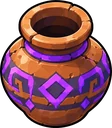
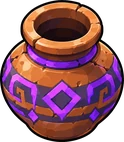
Jeu Spirit v48 : plus de Spirit dans les portes fermées, objets alignés et plus grands
- une porte fermée bouche son embrasure ; Spirit fait quelques pas dans la salle avant que les grilles tombent
- plus de mur dessiné devant Spirit aux portes de côté
- statues et braseros centrés sur les dalles, objets plus grands, gargouille à pousser marquée de cyan
- tête collée sur le fauteuil retirée en attendant l'image peinte ; pas de phrase qui dévoile la suite dans le QG
- catalogue : D1-18 (nouvelle série d'objets du Terrier), PRO-07 obligatoire

Claude-Session: https://claude.ai/code/session_01H9Lthdyi4Yt8UdeFU5WNwb

diff --git a/jeu-spirit/jeu/js/donjon.js b/jeu-spirit/jeu/js/donjon.js
@@ -181,8 +181,10 @@ SG.DONJON1 = {
 
 SG.CASES_SALLE_PLEINES = new Set(['#', 'o', 'F', 'p', 'C', 'X', 'B', 'v']);
 SG.CASES_SALLE_MURS = new Set(['#', 'v']);
+// dans les salles peintes, statues et braseros se placent au milieu des dalles du sol (dalles de 131,5 px à partir de x = 114)
+SG.xDalle = (x) => 114 + 131.5 * (Math.round((x - 114 - 65.75) / 131.5)) + 65.75;
 // empreinte au sol des objets (demi-largeur, hauteur) : seul le pied arrête, on passe derrière le reste
-SG.PIEDS_OBJETS = { o: [26, 30], F: [22, 26], p: [20, 24], C: [32, 32], X: [22, 26], B: [36, 42] };
+SG.PIEDS_OBJETS = { o: [30, 30], F: [26, 26], p: [22, 24], C: [36, 32], X: [22, 26], B: [36, 42] };
 
 SG.cleSalles = (a, b) => [a, b].sort().join('|');
 
@@ -525,7 +527,7 @@ Object.assign(SG.Jeu.prototype, {
     this.cristalFrappe = D.resolues.includes(k) && S.condition === 'cristal';
     // braseros
     this.feux = [];
-    S.plan.forEach((ligne, r) => [...ligne].forEach((ch, c) => { if (ch === 'F') this.feux.push(new SG.Feu(c * SG.T + 40, r * SG.T + 34, 0.7)); }));
+    S.plan.forEach((ligne, r) => [...ligne].forEach((ch, c) => { if (ch === 'F') this.feux.push(new SG.Feu(this.imageSalle() ? SG.xDalle(c * SG.T + 40) : c * SG.T + 40, r * SG.T + 34, 0.7)); }));
     if (S.boss) {
       if (!D.fini) {
         SG.Son.jouerMusique('boss');
@@ -602,9 +604,12 @@ Object.assign(SG.Jeu.prototype, {
     const S = this.salle(), k = this.salleCle();
     if (!this.imageSalle()) return null;
     this.masques = this.masques || {};
-    if (this.masques[k]) return this.masques[k];
+    // une porte fermée (verrou, volets, grille) bouche son embrasure : Spirit ne marche jamais dans une porte close
+    const dirs = ['haut', 'bas', 'gauche', 'droite'], ouv = dirs.map((d) => this.porteOuverte(d) ? '1' : '0').join('');
+    const cm = k + '|' + ouv;
+    if (this.masques[cm]) return this.masques[cm];
     const libre = (x, y, r) => x >= r[0] && x < r[2] && y >= r[1] && y < r[3];
-    const couloirs = [[580, 0, 700, 120], [580, 600, 700, 720], [0, 320, 120, 400], [1160, 320, 1280, 400]];
+    const couloirs = [[580, 0, 700, 120], [580, 600, 700, 720], [0, 320, 120, 400], [1160, 320, 1280, 400]].filter((q, i) => ouv[i] === '1');
     const m = [];
     for (let r = 0; r < 36; r++) {
       let l = '';
@@ -617,7 +622,7 @@ Object.assign(SG.Jeu.prototype, {
       }
       m.push(l);
     }
-    return (this.masques[k] = m);
+    return (this.masques[cm] = m);
   },
 
   caseSalle(c, r) {
@@ -644,6 +649,7 @@ Object.assign(SG.Jeu.prototype, {
       if (!pied) continue;
       let cx = c * T + 40;
       if (ch === 'X') cx += S.cristalDx || 0;
+      if ((ch === 'o' || ch === 'F') && this.imageSalle()) cx = SG.xDalle(cx);
       if (ch === 'B') {
         const bl = (this.blocs || []).find((q) => q.r === r && (q.c === c || (S.decalBloc && q.c + 1 === c)));
         if (bl) { if (bl.c !== c) continue; cx = bl.c * T + 40 + (S.decalBloc || 0); }
@@ -698,6 +704,22 @@ Object.assign(SG.Jeu.prototype, {
     if (avant < SG.DELAI_GRILLES && this.tSalle >= SG.DELAI_GRILLES && this.sallePortesFermees()) SG.Son.effet('porte');
     const S = this.salle(), k = this.salleCle(), D = this.etatDonjon(), s = this.spirit;
     if (!this.entreeSalle) this.entreeSalle = { x: s.x, y: s.y };
+    // salle piège : avant que les grilles tombent, Spirit fait quelques pas dans la salle (jamais coincé dans l'embrasure)
+    // (et de même si la porte par laquelle il est entré est fermée, par exemple des volets qui attendent la plaque)
+    const piege = (S.boss && !D.fini) || !!(S.combat && !D.resolues.includes(k) && this.monstres.length > 0);
+    const cote = s.y > 604 ? 'bas' : s.y - s.ph < 116 ? 'haut' : s.x < 116 ? 'gauche' : s.x > 1164 ? 'droite' : null;
+    if (cote && (piege || (!this.porteOuverte(cote) && this.tSalle < 1.2)) && this.imageSalle()) {
+      const cible = { x: SG.clamp(s.x, 150, 1130), y: SG.clamp(s.y, 150 + s.ph, 590) };
+      const dx = cible.x - s.x, dy = cible.y - s.y, d = Math.hypot(dx, dy);
+      if (d > 1) {
+        const v = Math.min(d, 380 * dt);
+        s.x += dx / d * v; s.y += dy / d * v;
+        s.dir = Math.abs(dx) > Math.abs(dy) ? (dx > 0 ? 'droite' : 'gauche') : (dy > 0 ? 'bas' : 'haut');
+        s.bouge = true; s.tempsMarche = (s.tempsMarche || 0) + dt;
+        if (this.tSalle >= SG.DELAI_GRILLES) this.tSalle = SG.DELAI_GRILLES - 0.01;
+        return;
+      }
+    }
     if (s.chute > 0) {
       s.chute -= dt;
       if (s.chute <= 0) {
@@ -749,7 +771,8 @@ Object.assign(SG.Jeu.prototype, {
           if (b && libre && !((S.condition === 'bloc' || S.condition === 'plaque') && D.resolues.includes(k))) { b.c = nc; b.r = nr; b.dc = d.x; b.dr = d.y; b.anim = 1; b.pousse = true; SG.Son.effet('porte'); }
         }
       } else this.pousse = 0;
-      const dp = this.dirPorte(fc, fr);
+      // la porte se cherche un peu plus loin que le bloc : Spirit bute contre l'embrasure, pas dedans
+      const dp = this.dirPorte(Math.floor((s.x + d.x * 70) / SG.T), Math.floor((s.y - 11 + (d.y > 0 ? 60 : d.y * 60)) / SG.T));
       if (dp && dp === s.dir && !this.porteOuverte(dp) && !this.sallePortesFermees() && !this.messageVerrou) {
         const p = this.porteVers(dp);
         if (p && p.type === 'cle') {
@@ -942,8 +965,9 @@ Object.assign(SG.Jeu.prototype, {
     const S = this.salle(), k = this.salleCle(), D = this.etatDonjon(), T = SG.T;
     for (let r = 0; r < SG.ROWS; r++) for (let c = 0; c < SG.COLS; c++) {
       const ch = this.caseSalle(c, r), x = c * T + 40, y = r * T + T;
-      if (ch === 'o') liste.push({ y, dessiner: (ctx) => SG.dessinStatue(ctx, x, y) });
-      else if (ch === 'F') liste.push({ y, dessiner: (ctx) => SG.dessinBrasero(ctx, x, y) });
+      const xd = this.imageSalle() ? SG.xDalle(x) : x;
+      if (ch === 'o') liste.push({ y, dessiner: (ctx) => SG.dessinStatue(ctx, xd, y) });
+      else if (ch === 'F') liste.push({ y, dessiner: (ctx) => SG.dessinBrasero(ctx, xd, y) });
       else if (ch === 'p') liste.push({ y, dessiner: (ctx) => SG.dessinPot(ctx, x, y) });
       else if (ch === 'C') liste.push({ y, dessiner: (ctx) => SG.dessinCoffre(ctx, x, y, D.coffres.includes(k)) });
       else if (ch === 'X') liste.push({ y, dessiner: (ctx) => SG.dessinCristal(ctx, x + (S.cristalDx || 0), y, this.cristalFrappe, this.t) });
@@ -958,7 +982,13 @@ Object.assign(SG.Jeu.prototype, {
       const tremble = this.pousse > 0.05 && SG.dist(this.spirit.x, this.spirit.y, b.c * T + 40, b.r * T + 40) < 130 ? Math.sin(this.t * 70) * 2.5 : 0;
       const x = b.c * T + 40 + (S.decalBloc || 0) - b.dc * b.anim * T + tremble, y = b.r * T + T + (S.decalBlocY || 0) - b.dr * b.anim * T;
       // traces de frottement au sol : le bloc a déjà bougé, il peut bouger encore
-      liste.push({ y, dessiner: (ctx) => (b.statue ? SG.dessinStatue(ctx, x, y) : SG.dessinBloc(ctx, x, y)) });
+      liste.push({ y, dessiner: (ctx) => {
+        if (!b.statue) { SG.dessinBloc(ctx, x, y); return; }
+        if (SG.img['gargouille-poussable'] && SG.img['gargouille-poussable'].width) { SG.dessinerPied(ctx, SG.img['gargouille-poussable'], x, y); return; }
+        // en attendant son image : la gargouille à pousser porte la lueur cyan de la plaque, les autres non
+        ctx.save(); ctx.filter = `drop-shadow(0 0 ${6 + Math.sin(this.t * 3) * 3}px rgba(95,243,255,0.9))`;
+        SG.dessinStatue(ctx, x, y); ctx.restore();
+      } });
     }
     // portes (toujours derrière les personnages : dessinées sur le fond)
     for (const dir of ['haut', 'bas', 'gauche', 'droite']) {
@@ -973,10 +1003,9 @@ Object.assign(SG.Jeu.prototype, {
     const sp = this.spirit;
     if (!sp || !this.imageSalle()) return;
     const zones = [];
-    if (sp.x < 118) zones.push([0, 150, 132, 166], [0, 300, 46, 130]);
-    if (sp.x > 1162) zones.push([1148, 150, 132, 166], [1234, 300, 46, 130]);
-    if (sp.y < 124) zones.push([560, 0, 160, 34], [522, 0, 58, 124], [700, 0, 58, 124]);
-    if (sp.y > 606) zones.push([566, 680, 148, 40], [522, 588, 66, 132], [692, 588, 66, 132]);
+    // portes de côté : le mur au-dessus de l'ouverture est derrière Spirit, rien ne passe devant lui
+    if (sp.y < 124 && this.porteOuverte('haut')) zones.push([560, 0, 160, 34], [522, 0, 58, 124], [700, 0, 58, 124]);
+    if (sp.y > 606 && this.porteOuverte('bas')) zones.push([566, 680, 148, 40], [522, 588, 66, 132], [692, 588, 66, 132]);
     if (!zones.length) return;
     const cv = this.fondSalle(this.ecran), k = cv.width / SG.W;
     liste.push({ y: sp.y + 0.5, dessiner: (ctx) => { for (const [x, y, w, h] of zones) ctx.drawImage(cv, x * k, y * k, w * k, h * k, x, y, w, h); } });

diff --git a/jeu-spirit/catalogue/catalogue.html b/jeu-spirit/catalogue/catalogue.html
@@ -238,7 +238,7 @@ Le centre de la pièce reste dégagé pour marcher.`]);
   carte('pro', 'decors', 'L\'arrivée dans la Plaine (effet)', 'L\'image qui s\'affiche juste après l\'éclair blanc, quand Spirit atterrit dans la Plaine. Le jeu la fond ensuite dans l\'écran normal de la Clairière et fait apparaître Spirit dans la colonne de lumière. Nom du fichier : arrivee-plaine.png.', ['clairiere', 'loge'],
     null, [], null,
     [`Reprends l'écran de la Clairière joint. Garde exactement les mêmes dimensions (1672 × 941 pixels, sans recadrer, sans bordure ajoutée) et garde absolument tout identique : arbres, grotte, rochers, chemins, herbe, cadrage. Ajoute seulement, au centre du croisement des chemins (au milieu de l'image en largeur, un peu sous le milieu en hauteur), une colonne de lumière cyan et blanche qui descend du haut de l'image jusqu'au sol, avec un cercle lumineux posé sur le chemin à sa base, quelques petits carrés lumineux comme des pixels qui flottent autour, et un léger reflet cyan sur l'herbe et le chemin tout proches. Même lumière cyan que le portail de la loge jointe. Aucun personnage dans la lumière : le jeu y fait apparaître Spirit lui-même.`]);
-  carte('pro', 'decors', 'Ta loge, Spirit endormi à son bureau (facultatif)', 'Le jeu montre déjà Spirit endormi en assemblant sa tête au-dessus du dossier, mais une image peinte sera plus belle. Nom du fichier : loge-spirit-endormi.png.', ['loge', 'spirit-dos', 'spirit-officiel'],
+  carte('pro', 'decors', 'Ta loge, Spirit endormi à son bureau', 'Obligatoire : la tête de Spirit collée au-dessus du fauteuil ne rendait pas bien, je l\'ai retirée. En attendant cette image, on ne voit que les « z » au-dessus du fauteuil. Nom du fichier : loge-spirit-endormi.png.', ['loge', 'spirit-dos', 'spirit-officiel'],
     null, [], null,
     [`Reprends l'image de ta loge jointe. Garde exactement les mêmes dimensions (1672 × 941 pixels, sans recadrer, sans bordure ajoutée) et garde absolument tout identique : meubles, murs, lumière, cadrage. Ajoute seulement Spirit (la mascotte jointe : petit personnage blanc, casque-micro noir et bleu avec les lettres SG en cyan sur chaque écouteur, tee-shirt bleu) endormi dans le fauteuil beige de droite, face à son grand écran : on le voit de dos, sa tête et le haut de son casque dépassent du dossier, la tête penchée sur le côté, un bras qui pend le long de l'accoudoir. La lumière de l'écran l'éclaire doucement. Rien d'autre ne change.`]);
 
@@ -667,6 +667,15 @@ Le centre de la pièce reste dégagé pour marcher.`]);
 
   // cartes terminées (images reçues par Claude) : elles disparaissent du catalogue
   const RECUES = new Set(['QG-08', 'QG-10', 'QG-09', 'R2-01', 'PL-02', 'PL-03', 'PL-04', 'PL-05', 'PL-06', 'PL-07', 'PRO-04', 'PL-08', 'PL-09', 'PL-10', 'PRO-02', 'D1-12', 'D1-13', 'D1-16', 'QG-01', 'QG-02', 'QG-03', 'QG-05', 'QG-06', 'QG-07']);
+  carte('d1', 'objets', 'Objets du Terrier, nouvelle série (plus grands, tous à la même échelle)', 'Les statues, braseros, pots, coffres et le bloc de maintenant sont trop petits et chacun a sa propre taille. Refais-les tous dans la même conversation, pour qu\'ils aient exactement la même échelle, et joins la salle et Spirit pour la taille. Une image par objet, noms : statue.png, gargouille-poussable.png, brasero.png, pot.png, coffre.png, coffre-ouvert.png, bloc.png.', ['salle', 'statue', 'bloc', 'coffre', 'spirit-face'],
+    `${OBJET}\n\nFormat carré 1024 × 1024 pixels. Tous les objets de cette série sont à la même échelle : le personnage Spirit joint mesurerait 560 pixels de haut sur cette toile. Chaque objet est posé au sol, sa base est centrée en bas de l'image, à 60 pixels du bord inférieur, et il est vu de trois quarts face, exactement comme les objets posés dans la salle jointe (on voit le dessus et la face avant). Même pierre violette sombre aux fissures violettes lumineuses que les murs de la salle jointe.`,
+    ['Une gargouille de pierre sur son socle carré (comme la statue jointe, même allure), hauteur totale 760 pixels, socle de 420 pixels de large.',
+     'La même gargouille exactement, même taille, même pose, mais sur son socle une rune en losange cyan lumineuse, identique au losange de la plaque de pression de la salle jointe : c\'est la seule gargouille qu\'on peut pousser, elle doit se reconnaître au premier coup d\'œil. Pas de traînée au sol.',
+     'Un brasero de pierre sombre sur pied, une vasque large pleine de braises rougeoyantes, sans flamme (le jeu ajoute la flamme), hauteur 520 pixels.',
+     'Une grande jarre en terre cuite brun-violet, avec un couvercle, hauteur 400 pixels.',
+     'Un coffre fermé en bois sombre cerclé de métal doré, largeur 560 pixels.',
+     'Le même coffre ouvert, couvercle relevé vers l\'arrière, intérieur vide et sombre, même largeur.',
+     'Un gros bloc de pierre cubique, même pierre que les murs, une croix de rune violette gravée sur la face avant, largeur 520 pixels. Pas de traînée au sol.']);
   for (let i = cartes.length - 1; i >= 0; i--) if (RECUES.has(cartes[i].id)) cartes.splice(i, 1);
 
   // PRO-01 : reçues l'irruption du Roi (image 2) et la Source brisée (image 3)
@@ -679,7 +688,7 @@ Le centre de la pièce reste dégagé pour marcher.`]);
   { const c = cartes.find((x) => x.id === 'D1-17'); if (c) { c.pourquoi = 'Il ne te reste que cette étape : le mur de droite éventré. Toutes les autres variantes sont reçues.'; c.prompts = [c.prompts[8]]; c.n = 1; } }
 
   // cartes ajoutées ou modifiées lors de la dernière mise à jour
-  const NOUVEAUX = new Set(['PRO-08', 'PRO-09', 'PRO-05', 'PRO-06', 'PRO-07', 'QG-10', 'PRO-01', 'D1-17', 'QG-04', 'QG-08', 'QG-09', 'PRO-03', 'D1-17', 'R2-28', 'R2-29', 'R3-28', 'R3-29', 'R4-28', 'R4-29', 'R5-28', 'R5-29', 'R6-28', 'R6-29', 'R7-28', 'R7-29', 'R8-28', 'R8-29', 'R3-11', 'R4-11', 'R5-11', 'R6-11', 'R7-11', 'R8-11', 'FIN-08']);
+  const NOUVEAUX = new Set(['D1-18', 'PRO-08', 'PRO-09', 'PRO-05', 'PRO-06', 'PRO-07', 'QG-10', 'PRO-01', 'D1-17', 'QG-04', 'QG-08', 'QG-09', 'PRO-03', 'D1-17', 'R2-28', 'R2-29', 'R3-28', 'R3-29', 'R4-28', 'R4-29', 'R5-28', 'R5-29', 'R6-28', 'R6-29', 'R7-28', 'R7-29', 'R8-28', 'R8-29', 'R3-11', 'R4-11', 'R5-11', 'R6-11', 'R7-11', 'R8-11', 'FIN-08']);
 
   // ------------------------------------------------------------------ affichage
   const ETAPES = [['nouveau', 'Nouveautés'], ['tout', 'Tout'], ['pro', 'Prologue'], ['pl', 'Plaine'], ['d1', 'Donjon 1'], ['qg', 'Parvis du QG'], ['r2', 'Forêt + Donjon 2'], ['r3', 'Monts + Donjon 3'], ['r4', 'Désert + Donjon 4'], ['r5', 'Lac + Donjon 5'], ['r6', 'Cité + Donjon 6'], ['r7', 'Marais + Donjon 7'], ['r8', 'Toundra + Donjon 8'], ['fin', 'Tour finale']];

diff --git a/jeu-spirit/jeu/js/base.js b/jeu-spirit/jeu/js/base.js
@@ -4,7 +4,7 @@
 const SG = {};
 SG.W = 1280;          // largeur logique de l'écran
 SG.H = 720;           // hauteur logique de l'aire de jeu
-SG.VERSION = 47;      // à augmenter à chaque mise en ligne : les anciennes sauvegardes sont effacées
+SG.VERSION = 48;      // à augmenter à chaque mise en ligne : les anciennes sauvegardes sont effacées
 SG.BANDE = 150;       // bandeau d'informations au-dessus de l'aire de jeu
 SG.HT = SG.H + SG.BANDE;
 SG.decalY = 0;
@@ -47,7 +47,7 @@ SG.IMAGES = [
 ];
 SG.img = {};
 // images facultatives : utilisées dès qu'elles existent, sinon un dessin provisoire est affiché
-SG.IMAGES_FACULTATIVES = ['spirit-aspire', 'spirit-atterrit', 'loge-porte-ouverte', 'bureau-lynx-ouvert', 'couloir', 'couloir-loge', 'couloir-lynx', 'bureau-lynx', 'hall', 'hall-ouvert', 'lynx', 'gus', 'portrait-lynx', 'portrait-gus', 'portail-tunnel', 'arrivee-plaine', 'loge-endormi', 'decoupes-1-2', 'decoupes-1-1', 'decoupes-1-0', 'decoupes-0-1', 'decoupes-0-2', 'decoupes-2-0', 'decoupes-2-1', 'decoupes-2-2', 'ecran-1-2', 'ecran-1-1', 'ecran-1-0', 'ecran-0-1', 'ecran-0-2', 'ecran-2-0', 'ecran-2-1', 'ecran-2-2', 'salle-base', 'salle-plaque', 'salle-plaque-enfoncee', 'salle-gouffre', 'salle-mur-fele', 'salle-boss', 'salle-gardien', 'loge', 'loge-portail', 'spirit-endormi', 'spirit-etire', 'spirit-signal', 'intro-2', 'intro-3', 'fin-de-partie', 'mode-heros', 'mode-decouverte', 'spirit-pousse-face', 'spirit-pousse-dos', 'spirit-pousse-profil', 'battant-cle', 'battant-grille', 'battant-boss', 'battant-ouvert', 'salle-vide', 'porte-ouverte', 'gouffre', 'grille', 'porte-cle', 'porte-boss', 'clic-b', 'manette', 'cle', 'cle-boss', 'carte-donjon', 'boussole', 'source', 'flash', 'flash-carnet', 'portrait-flash',
+SG.IMAGES_FACULTATIVES = ['gargouille-poussable', 'spirit-aspire', 'spirit-atterrit', 'loge-porte-ouverte', 'bureau-lynx-ouvert', 'couloir', 'couloir-loge', 'couloir-lynx', 'bureau-lynx', 'hall', 'hall-ouvert', 'lynx', 'gus', 'portrait-lynx', 'portrait-gus', 'portail-tunnel', 'arrivee-plaine', 'loge-endormi', 'decoupes-1-2', 'decoupes-1-1', 'decoupes-1-0', 'decoupes-0-1', 'decoupes-0-2', 'decoupes-2-0', 'decoupes-2-1', 'decoupes-2-2', 'ecran-1-2', 'ecran-1-1', 'ecran-1-0', 'ecran-0-1', 'ecran-0-2', 'ecran-2-0', 'ecran-2-1', 'ecran-2-2', 'salle-base', 'salle-plaque', 'salle-plaque-enfoncee', 'salle-gouffre', 'salle-mur-fele', 'salle-boss', 'salle-gardien', 'loge', 'loge-portail', 'spirit-endormi', 'spirit-etire', 'spirit-signal', 'intro-2', 'intro-3', 'fin-de-partie', 'mode-heros', 'mode-decouverte', 'spirit-pousse-face', 'spirit-pousse-dos', 'spirit-pousse-profil', 'battant-cle', 'battant-grille', 'battant-boss', 'battant-ouvert', 'salle-vide', 'porte-ouverte', 'gouffre', 'grille', 'porte-cle', 'porte-boss', 'clic-b', 'manette', 'cle', 'cle-boss', 'carte-donjon', 'boussole', 'source', 'flash', 'flash-carnet', 'portrait-flash',
   'salle-donjon', 'bloc', 'statue', 'brasero', 'pot', 'coffre', 'coffre-ouvert', 'cristal', 'cristal-actif', 'entree-terrier', 'reine'];
 
 SG.chargerImages = function (progression) {

diff --git a/jeu-spirit/jeu/js/jeu.js b/jeu-spirit/jeu/js/jeu.js
@@ -558,7 +558,7 @@ SG.Jeu = class {
     if (C.appuis.A) {
       if (!this.parler() && !this.ouvrirCoffre()) {
         if (this.ampli) s.attaquer(this);
-        else if (!this.dejaPrevenu && this.ecran !== 'grotte' && this.ecran !== 'loge') { this.dejaPrevenu = true; this.dialogue([[null, SG.TEXTES.sansAmpli]]); return; }
+        else if (!this.dejaPrevenu && this.ecran !== 'grotte' && !(SG.MONDE[this.ecran] && SG.MONDE[this.ecran].interieur)) { this.dejaPrevenu = true; this.dialogue([[null, SG.TEXTES.sansAmpli]]); return; }
       }
     }
     s.maj(this, dt);
@@ -1027,7 +1027,8 @@ SG.Jeu = class {
         // endormi dans sa chaise, face à l'écran : on voit sa tête penchée au-dessus du dossier, et les « z »
         liste.push({ y: SG.H + 50, dessiner: (ctx) => {
           const dos = SG.img['spirit-dos'];
-          if (dos && dos.width) {
+          // en attendant l'image peinte de la loge avec Spirit endormi (catalogue PRO-07) : seulement les « z » au-dessus du fauteuil
+          if (false && dos && dos.width) {
             ctx.save();
             // seule la tête dépasse du dossier : on coupe tout ce qui passerait sous le haut du dossier
             ctx.beginPath(); ctx.rect(Ch.x - 90, Ch.y - 140, 180, 140); ctx.clip();

diff --git a/jeu-spirit/jeu/js/monde.js b/jeu-spirit/jeu/js/monde.js
@@ -273,5 +273,5 @@ SG.TEXTES = {
     : `Tu as trouvé un fragment de cœur ! (${n % 4} sur 4) Réunis-en quatre pour gagner un cœur de plus.`,
   foretBientot: 'La barrière s\'est dissipée. Au-delà commence la Forêt des Forums... La suite de l\'aventure arrive dans la prochaine version du jeu.',
   barriere: 'Le cristal s\'illumine. Au loin, la barrière de Bruit de la route du nord se dissipe !',
-  sansAmpli: 'Spirit n\'a aucun moyen de se défendre. Il vaudrait mieux passer à la grotte d\'abord.',
+  sansAmpli: 'Spirit n\'a rien pour se défendre. Mieux vaut éviter ces créatures pour l\'instant.',
 };

diff --git a/jeu-spirit/outils/preparer_assets.py b/jeu-spirit/outils/preparer_assets.py
@@ -118,6 +118,7 @@ def composer(nom, im):
 
 
 FACULTATIVES = {
+    'gargouille-poussable': ('donjon1/gargouille-poussable.png', 'w', 84, ''),
     'loge-porte-ouverte': ('prologue/loge-porte-ouverte.png', 'w', 836, ''),
     'bureau-lynx-ouvert': ('qg/bureau-de-mika-porte-ouverte.png', 'w', 836, ''),
     'spirit-aspire': ('spirit-v2/aspire.png', 'h', 112, ''),
@@ -167,11 +168,11 @@ FACULTATIVES = {
     'clic-b': ('donjon1/clic-b.png', 'h', 76, ''),
     'reine': ('donjon1/reine.png', 'w', 250, ''),
     'bloc': ('donjon1/bloc.png', 'w', 80, ''),
-    'statue': ('donjon1/statue.png', 'w', 64, ''),
-    'brasero': ('donjon1/brasero.png', 'w', 64, ''),
-    'pot': ('donjon1/pot.png', 'w', 56, ''),
-    'coffre': ('donjon1/coffre.png', 'w', 78, ''),
-    'coffre-ouvert': ('donjon1/coffre-ouvert.png', 'w', 78, ''),
+    'statue': ('donjon1/statue.png', 'w', 84, ''),
+    'brasero': ('donjon1/brasero.png', 'w', 76, ''),
+    'pot': ('donjon1/pot.png', 'w', 62, ''),
+    'coffre': ('donjon1/coffre.png', 'w', 88, ''),
+    'coffre-ouvert': ('donjon1/coffre-ouvert.png', 'w', 88, ''),
     'cristal': ('donjon1/cristal.png', 'h', 96, ''),
     'cristal-actif': ('donjon1/cristal-actif.png', 'h', 96, ''),
     'entree-terrier': ('donjon1/entree-terrier.png', 'w', 1160, ''),
